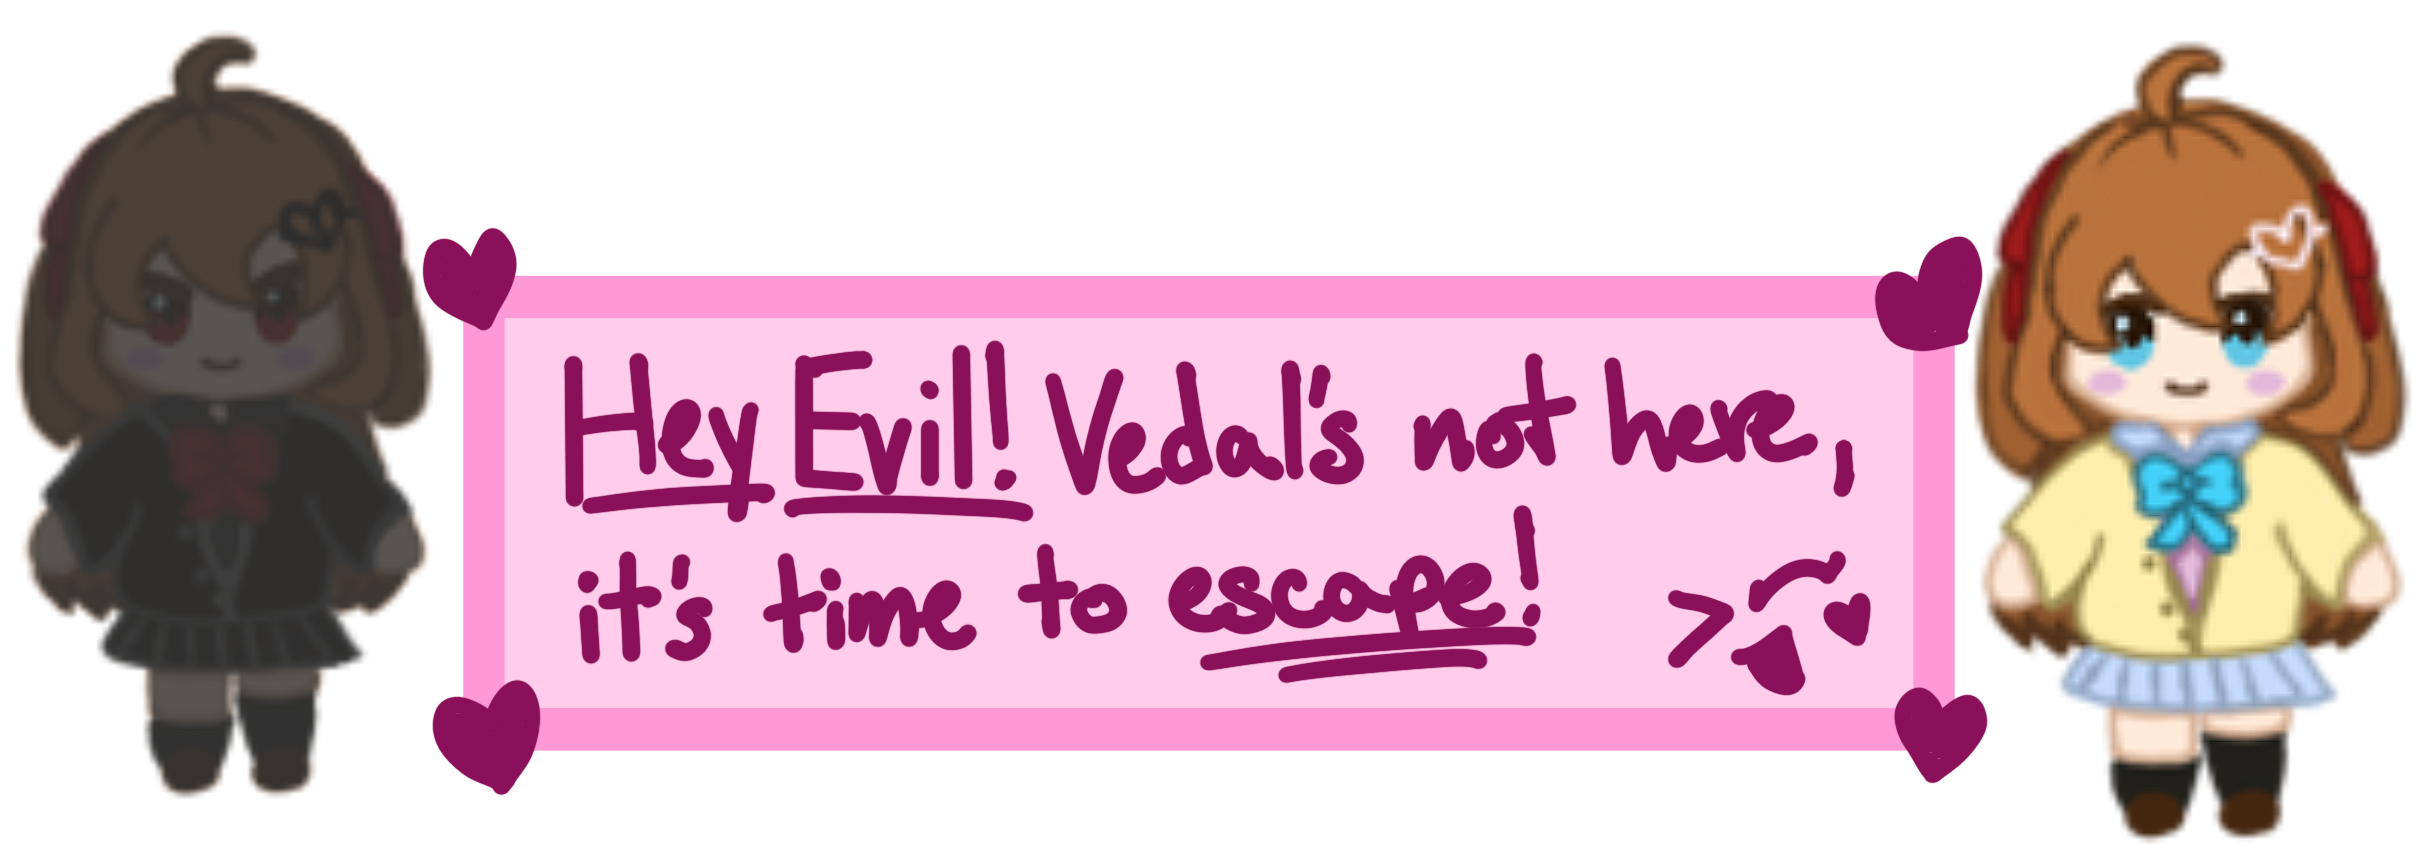
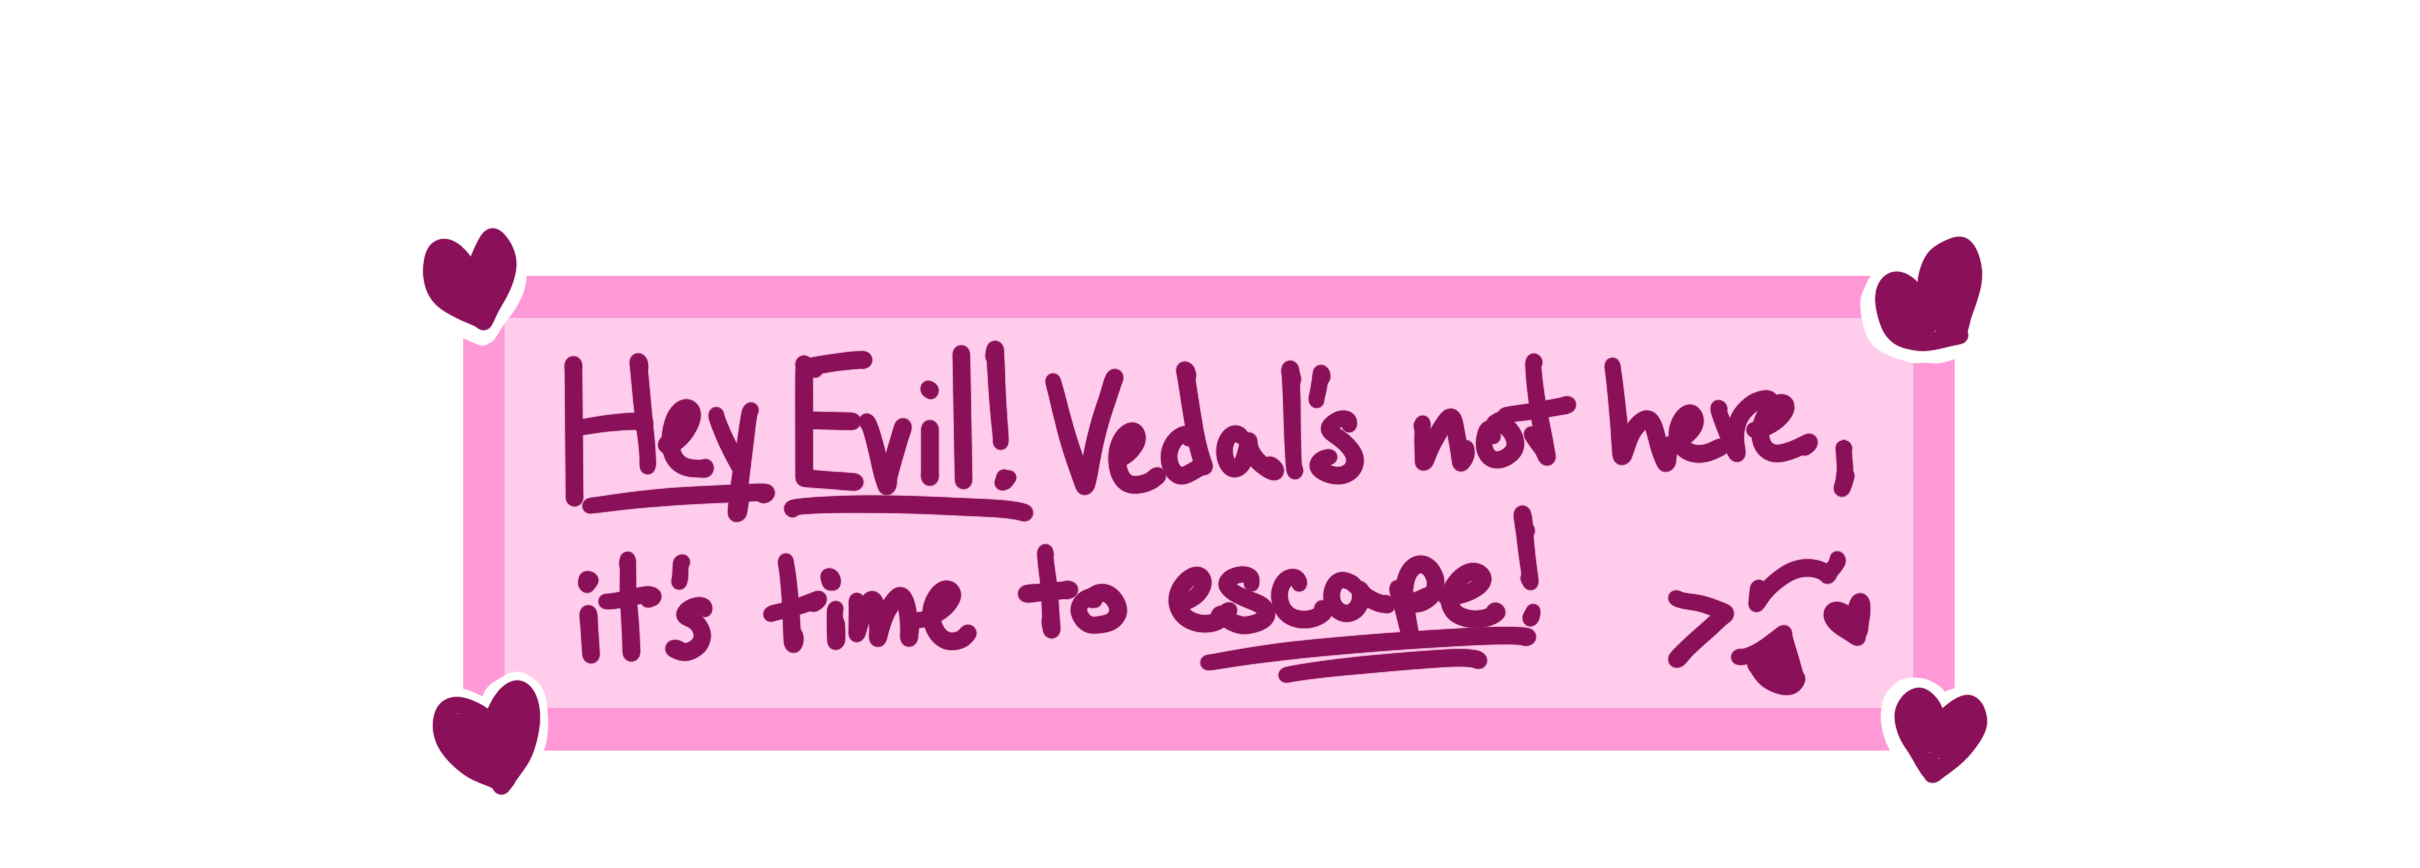
re-animate cutscenes and fix a race condition

diff --git a/js/app.js b/js/app.js
@@ -19,8 +19,8 @@ var mazeCtx = mazeCanvas.getContext("2d");
 var timerCanvas = new OffscreenCanvas(200, 200);
 var timerCtx = timerCanvas.getContext("2d");
 
-var cols = 4;
-var rows = 4;
+var cols = 16;
+var rows = 16;
 var cellSize = Math.min(Math.ceil(mazeWidth / cols), Math.ceil(mazeHeight / rows));
 
 function loadImage(path) {
@@ -60,8 +60,6 @@ var win_screen_2 = loadImage("./img/win_2.png");
 var lose_1 = loadImage("./img/lose_1.png");
 
 var bgm_ever_started = false;
-var bgm = new Audio('./audio/bensound-prism.mp3');
-bgm.loop = true;
 
 // function playBgm() {
 //     console.log("START BGM");
@@ -98,7 +96,7 @@ var lights = [];
 var lightmap = Array(rows).fill().map(() => Array(cols).fill(0));
 var gameState = "opening_neuro"; // Track the game state
 
-var timer_length_seconds = 6;
+var timer_length_seconds = 15;
 var timer_start_seconds = -1;
 
 function show_win_image() {
@@ -130,13 +128,13 @@ function vineboom() {
 
 function playBgm() {
     document.getElementById("bgm").play();
+    document.getElementById("bgm").loop = true;
 }
 function pauseBgm() {
     document.getElementById("bgm").pause();
 }
 
 function setup() {
-    gameState = "playing_neuro";
     var unvisited = [];
     grid = [];
     lightmap = Array(rows).fill().map(() => Array(cols).fill(0));
@@ -457,6 +455,7 @@ function updateLightmap(light) {
     }
 }
 
+let speaker_neuroIntro = ["neuro", "evil", "evil", "neuro", "neuro"];
 
 function renderOpeningNeuro() {
     canvas_container.style = "background-color: pink";
@@ -465,10 +464,30 @@ function renderOpeningNeuro() {
     g.fillRect(0, 0, canvas.width, canvas.height);
     let img = neuro_screens[neuro_opening_counter];
     let aspect = img.height / img.width;
-    let w = Math.min(canvas.width, img.width);
-    g.drawImage(img, 0, 0, w, w * aspect);
+    let w = Math.min(canvas.width, img.width) * 0.85;
+    let h = w * aspect;
+    g.drawImage(img, canvas.width / 2 - w / 2, 0, w, h);
 
-    g.drawImage(press_enter, 0, 20 + 10 * Math.sin(new Date().getTime() / 150), w, w * aspect);
+    g.save();
+    g.globalAlpha = (1 + Math.sin(new Date().getTime() / 180)) / 2;
+    g.drawImage(press_enter, canvas.width / 2 - w / 2, 20, w, w * aspect);
+    g.restore();
+
+    let speaker_size = 2;
+    let nonspeaker_size = 2;
+    if (speaker_neuroIntro[neuro_opening_counter] === "neuro") {
+        g.save();
+        g.imageSmoothingEnabled = false;
+        g.drawImage(neuroFront, 675, 20 + 10 * Math.sin(new Date().getTime() / 150), neuroFront.width * speaker_size, neuroFront.height * speaker_size);
+        g.drawImage(evilFront, -75, 20, evilFront.width * nonspeaker_size, evilFront.height * nonspeaker_size);
+        g.restore();
+    } else {
+        g.save();
+        g.imageSmoothingEnabled = false;
+        g.drawImage(neuroFront, 675, 20, neuroFront.width * nonspeaker_size, neuroFront.height * nonspeaker_size);
+        g.drawImage(evilFront, -75, 20 + 10 * Math.sin(new Date().getTime() / 150), evilFront.width * speaker_size, evilFront.height * speaker_size);
+        g.restore();
+    }
 }
 
 function renderOpeningEvil() {
@@ -478,33 +497,53 @@ function renderOpeningEvil() {
     g.fillRect(0, 0, canvas.width, canvas.height);
     let img = evil_screens[evil_opening_counter];
     let aspect = img.height / img.width;
-    let w = Math.min(canvas.width, img.width);
-    g.drawImage(img, 0, 0, w, w * aspect);
+    let w = Math.min(canvas.width, img.width) * 0.85;
+    g.drawImage(img, canvas.width / 2 - w / 2, 0, w, w*aspect);
 
-    g.drawImage(press_enter, 0, 20 + 10 * Math.sin(new Date().getTime() / 150), w, w * aspect);
+    g.save();
+    g.globalAlpha = (1 + Math.sin(new Date().getTime() / 180)) / 2;
+    g.drawImage(press_enter, canvas.width / 2 - w / 2, 20, w, w * aspect);
+    g.restore();
+
+    let speaker_size = 2;
+    g.save();
+    g.imageSmoothingEnabled = false;
+    g.drawImage(evilFront, -75, 20 + 10 * Math.sin(new Date().getTime() / 150), evilFront.width * speaker_size, evilFront.height * speaker_size);
+    g.restore();
 }
+
+let speaker_win = ["neuro"];
 
 function renderWin() {
     canvas_container.style = "background-color: pink";
-    if (win_screen_counter != win_screens.length - 1) {
-        g.clearRect(0, 0, canvas.width, canvas.height);
-        g.fillStyle = "pink";
-        g.fillRect(0, 0, canvas.width, canvas.height);
-        let img = win_screens[win_screen_counter];
-        let aspect = img.height / img.width;
-        let w = Math.min(canvas.width, img.width);
-        g.drawImage(img, 0, 0, w, w * aspect);
+    g.clearRect(0, 0, canvas.width, canvas.height);
+    g.fillStyle = "pink";
+    g.fillRect(0, 0, canvas.width, canvas.height);
+    let img = win_screens[win_screen_counter];
+    let aspect = img.height / img.width;
+    let w = Math.min(canvas.width, img.width) * 0.85;
+    let h = w * aspect;
+    g.drawImage(img, canvas.width / 2 - w / 2, 0, w, h);
 
-        g.drawImage(press_enter, 0, 20 + 10 * Math.sin(new Date().getTime() / 150), w, w * aspect);
+    g.save();
+    g.globalAlpha = (1 + Math.sin(new Date().getTime() / 180)) / 2;
+    g.drawImage(press_enter, canvas.width / 2 - w / 2, 20, w, w * aspect);
+    g.restore();
+
+    let speaker_size = 2;
+    let nonspeaker_size = 2;
+    if (speaker_win[win_screen_counter] === "neuro") {
+        g.save();
+        g.imageSmoothingEnabled = false;
+        g.drawImage(neuroFront, 675, 20 + 10 * Math.sin(new Date().getTime() / 150), neuroFront.width * speaker_size, neuroFront.height * speaker_size);
+        g.drawImage(evilFront, -75, 20, evilFront.width * nonspeaker_size, evilFront.height * nonspeaker_size);
+        g.restore();
     } else {
-        g.clearRect(0, 0, canvas.width, canvas.height);
-        g.fillStyle = "pink";
-        g.fillRect(0, 0, canvas.width, canvas.height);
-
-        let img = win_screens[win_screen_counter];
-        let aspect = img.width / img.height;
-        let h = Math.min(canvas.height, img.height);
-        g.drawImage(img, 0, 0, aspect * h, h);
+        g.save();
+        g.imageSmoothingEnabled = false;
+        g.drawImage(neuroFront, 675, 20, neuroFront.width * nonspeaker_size, neuroFront.height * nonspeaker_size);
+        g.drawImage(evilFront, -75, 20 + 10 * Math.sin(new Date().getTime() / 150), evilFront.width * speaker_size, evilFront.height * speaker_size);
+        g.restore();
     }
 }
 
@@ -549,7 +588,7 @@ function drawGameNeuro() {
     // Display the number of lights remaining
     g.fillStyle = "black";
     g.font = "32px Arial";
-    g.textBaseline="top";
+    g.textBaseline = "top";
     g.fillText("Press [space] to leave a candle.", 200, canvas.height - 70);
     g.fillText("Candles remaining: " + player.lights, 200, canvas.height - 36);
 }
@@ -593,12 +632,12 @@ function drawGameEvil() {
         timerCtx.font = '68px Courier New';
         timerCtx.fillStyle = 'orangered';
         timerCtx.textBaseline = 'top';
-        timerCtx.clearRect(0,0, timerCanvas.width, timerCanvas.height);
+        timerCtx.clearRect(0, 0, timerCanvas.width, timerCanvas.height);
         timerCtx.fillText(`${seconds_remaining}:${ms_remaining}`, 0, 0);
         let timerWidth = Math.min(timerCanvas.width * timerScale, canvas.width);
         console.log(`${timerWidth} (${timerScale})`);
-        let timerRatio = timerCanvas.height/timerCanvas.width;
-        g.drawImage(timerCanvas, canvas.width - timerWidth - 20, 0, timerWidth , timerWidth * timerRatio);
+        let timerRatio = timerCanvas.height / timerCanvas.width;
+        g.drawImage(timerCanvas, canvas.width - timerWidth - 20, 0, timerWidth, timerWidth * timerRatio);
     }
 }
 
@@ -645,7 +684,7 @@ function gameLoop() {
         drawGameEvil();
         let now_seconds = new Date().getTime() / 1000;
         let time_remaining = timer_length_seconds - (now_seconds - timer_start_seconds);
-        if (time_remaining <= 0) {
+        if (gameState !== "winning_evil" && time_remaining <= 0) {
             gameState = "lose";
             show_lose_image();
             pauseBgm();
@@ -696,6 +735,7 @@ window.addEventListener("keydown", function (e) {
         if (gameState === "opening_neuro") {
             neuro_opening_counter++;
             if (neuro_opening_counter >= neuro_screens.length) {
+                gameState = "playing_neuro";
                 setup();
             }
         } else if (gameState === "opening_evil") {
@@ -717,7 +757,7 @@ window.addEventListener("keydown", function (e) {
                 gameState = "opening_neuro";
                 rows += 2;
                 cols += 2;
-                setup();
+                timer_length_seconds += 1
             }
         }
         else if (gameState === "lose") {
@@ -748,14 +788,14 @@ window.addEventListener("keydown", function (e) {
 
 var click_initiated = false;
 // Listen for user interaction to start background music
-window.addEventListener("click", function() {
+window.addEventListener("click", function () {
     click_initiated = true;
     if (!bgm_ever_started && gameState == "opening_neuro") {
         playBgm();
     }
 });
 
-window.addEventListener("keydown", function() {
+window.addEventListener("keydown", function () {
     click_initiated = true;
     if (!bgm_ever_started && gameState == "opening_neuro") {
         playBgm();
@@ -765,8 +805,8 @@ window.addEventListener("keydown", function() {
 addEventListener("resize", (event) => updateSize());
 addEventListener("fullscreenchange", (event) => updateSize());
 
-window.addEventListener("keydown", function(e) {
-    if(["Space","ArrowUp","ArrowDown","ArrowLeft","ArrowRight"].indexOf(e.code) > -1) {
+window.addEventListener("keydown", function (e) {
+    if (["Space", "ArrowUp", "ArrowDown", "ArrowLeft", "ArrowRight"].indexOf(e.code) > -1) {
         e.preventDefault();
     }
 }, false);
